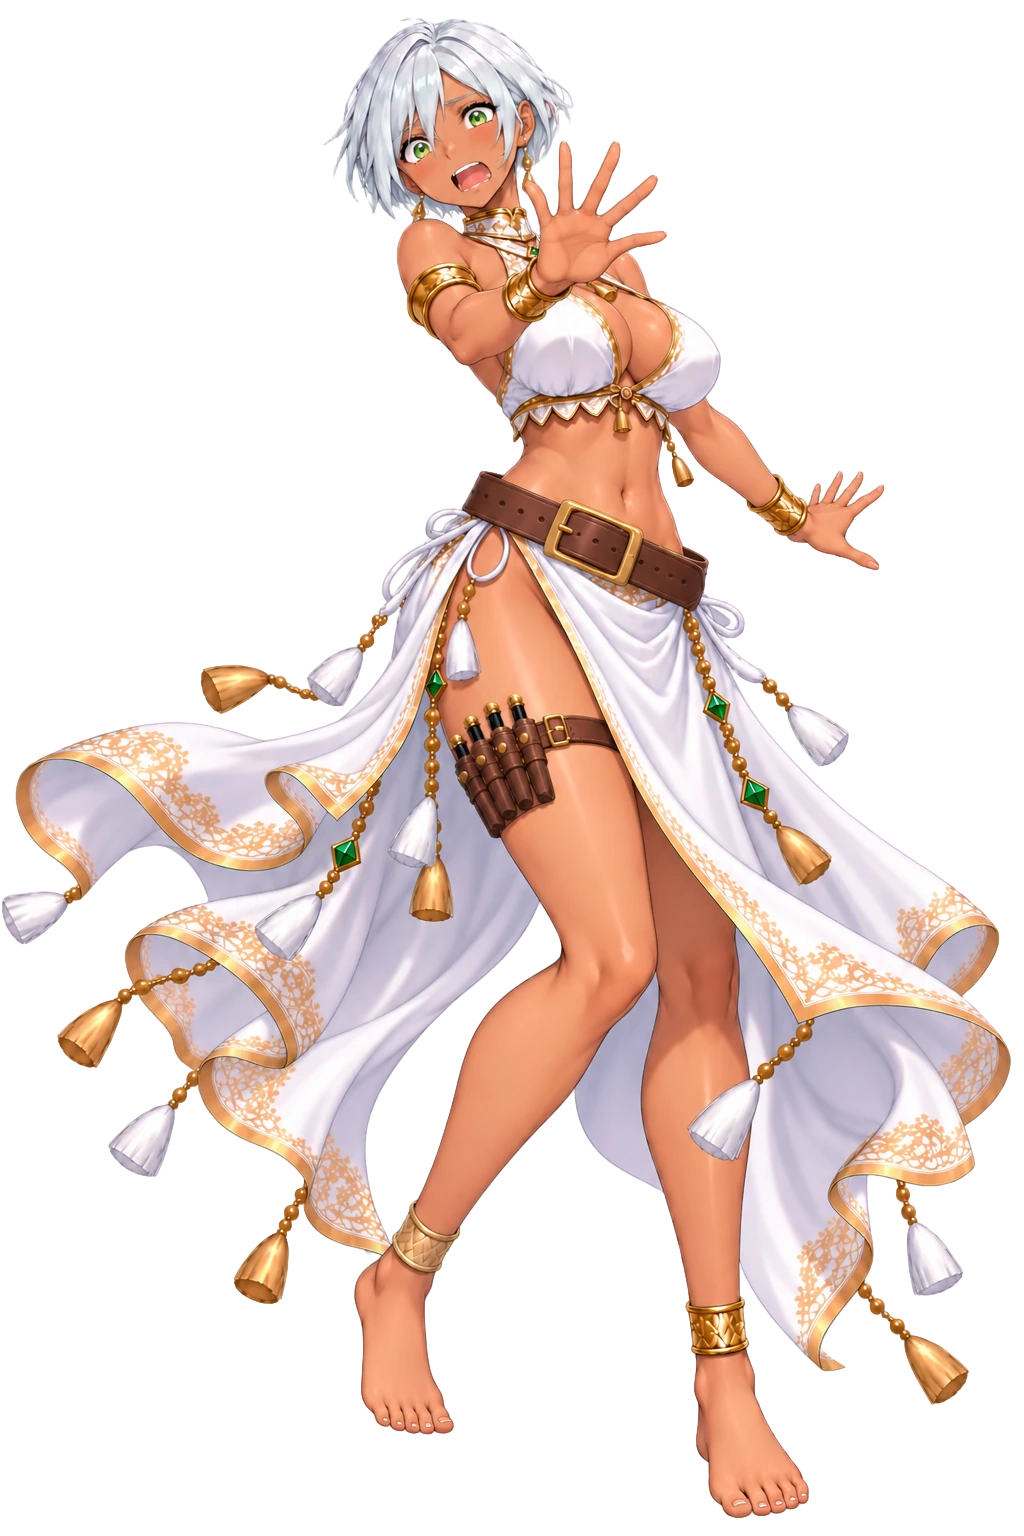
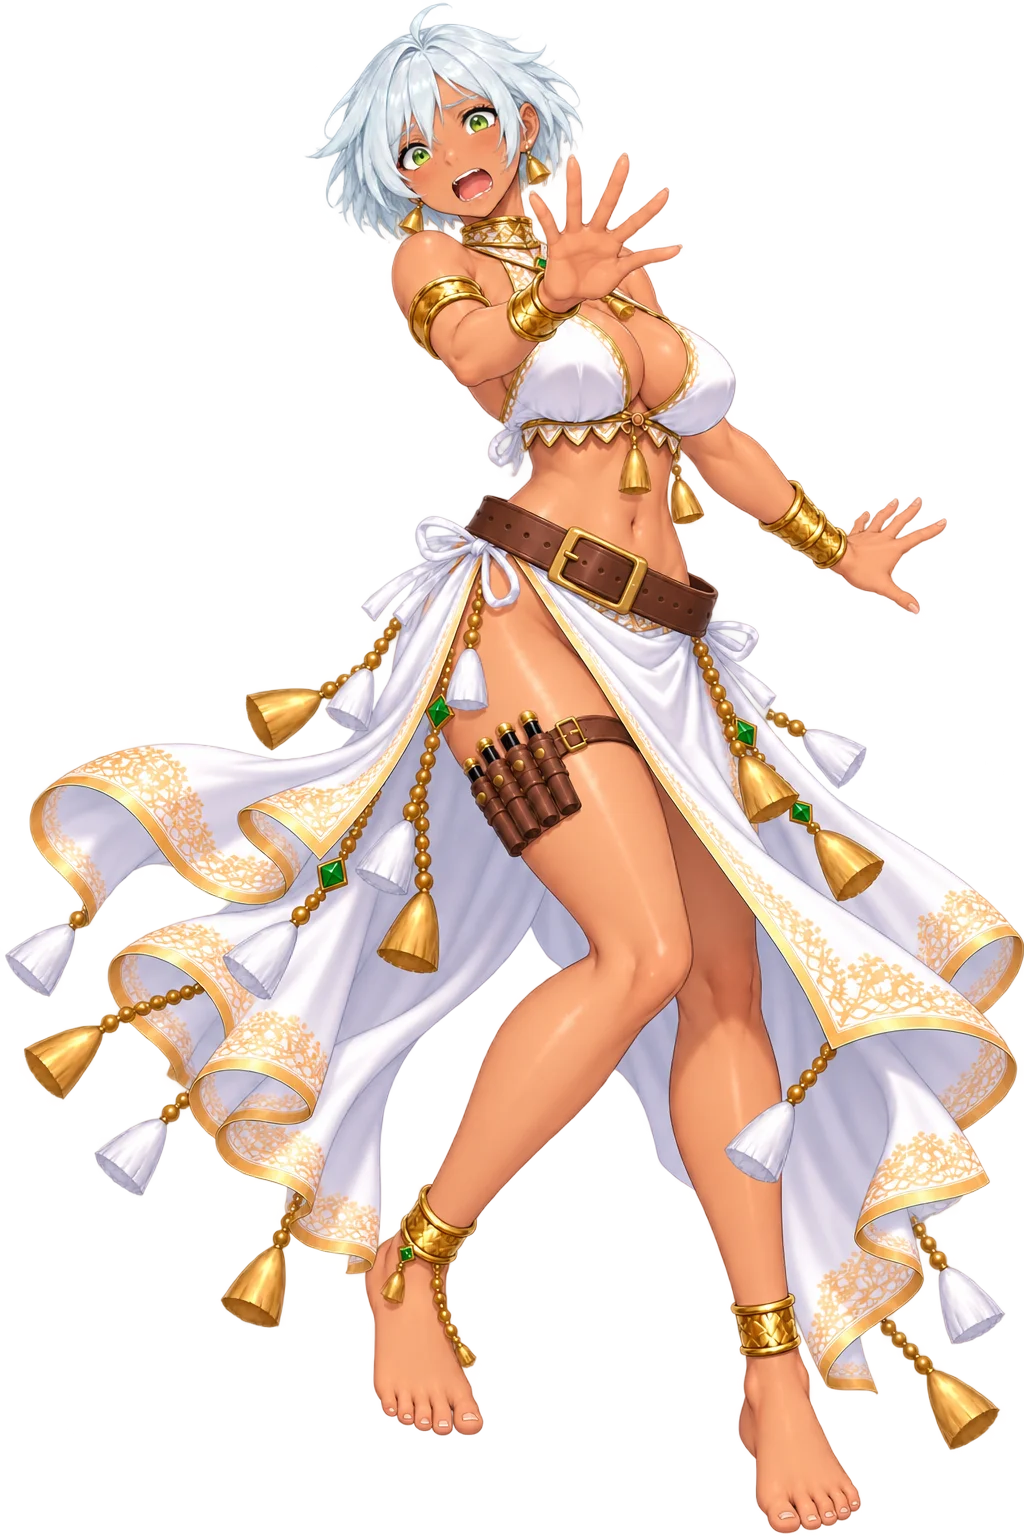
art(索拉娜): scare 短提示詞版 —— 15/15 完成
· 208.7°／角落 alpha 0／近白 1.84%；B 版（加方向詞那一版）留在 staging 當備選
· top 16→3、bot 1518→1532；fx 不動

⚠ 修掉一個會燒額度的判定錯誤：ChatGPT 是虛擬清單，捲完容器要等 1.5 秒
  再查 DOM，否則新圖讀不到 → 被誤判成「那一串掛了」→ 重送。
  scare 因此白跑三次。規約第七節已加。

diff --git a/resources/si/_sorana_regen_spec.md b/resources/si/_sorana_regen_spec.md
@@ -127,6 +127,22 @@
 同 §憲法「ChatGPT 的圖可以程式化下載」：頁內 `fetch(img.src)` → blob → `<a download>`。
 取**最後一張 `naturalWidth>=512`** 的圖。
 
+### ⚠⚠⚠ 捲完容器要**等 render**，不然會把「已經出圖」誤判成「掛了」（2026-09-21）
+
+ChatGPT 的訊息串是**虛擬清單**：新產出的 `<img>` **捲到之前根本不在 DOM 上**。
+`__grab` 的捲動迴圈與查詢寫在**同一個 tick**，所以查到的一直是「只有兩張上傳圖」
+⇒ 判成「這一串死了」→ 換對話重送。
+
+**實測後果：`scare` 這一張因此連跑四次，三次是白燒的**（每一次都真的出圖了，
+只是我讀不到）。Ray 的原話：「這張明明就已經出了你為什麼重覆跑？難怪我額度每天都被耗完」
+「**你的掛了的判定很有問題**」。
+
+⇒ **修法（一行）**：捲完 `await new Promise(r=>setTimeout(r,1500))` 再查。
+
+⚠⚠ **連帶：「超過 6 分鐘沒動＝那一串死了」這條規則要先過上面那道**。
+沒等 render 就套那條規則，等於**拿一個壞掉的觀測去觸發重送** ——
+額度就是這樣被吃掉的。**宣告任何一串「死了」之前，先捲＋等 1.5 秒再查一次。**
+
 ## 八、卡住的處理
 
 - 生圖**超過 6 分鐘沒動** ＝ 那一串死了 → **換新對話重送**（實測 ver -1556 死過一次）。

diff --git a/resources/si/_sorana_program_worklist.md b/resources/si/_sorana_program_worklist.md
@@ -14,7 +14,7 @@ resources/si/sorana_si_nod.webp        resources/si/sorana_si_stare.webp
 resources/si/sorana_si_point.webp      resources/si/sorana_si_wave.webp
 resources/si/sorana_si_lookaway.webp   resources/si/sorana_si_worry.webp
 resources/si/sorana_si_relief.webp     resources/si/sorana_si_sleep.webp
-resources/si/sorana_si_scare.webp      ← scare 交件後一起
+resources/si/sorana_si_scare.webp
 ```
 
 ⚠ 這 11 個目前都**還沒有** `?v=`，所以是加 `?v=2`（同 `renna_si_scream` 的寫法）。
@@ -39,6 +39,7 @@ resources/si/sorana_si_scare.webp      ← scare 交件後一起
 | lookaway | 5 → 5（不變） | 1513 → **1521** |
 | relief | 8 → **11** | 1518 → **1517** |
 | sleep | 304 → **231** | 1231 → **1424** ⚠ 見下 |
+| scare | 16 → **3** | 1518 → **1532** |
 
 ### ⚠⚠ `sleep` 另外要調 `cm`／`standCm`（**不要照抄，要看畫面調**）
 
@@ -69,4 +70,4 @@ resources/si/sorana_si_scare.webp      ← scare 交件後一起
 
 - 其餘索拉娜立繪（含 `battlecry`／`front`／`side`／`back` 與 read 系列）**這一輪沒換**。
 - Ray 交辦「舊索拉娜圖全部重製」還有 **46 張**沒做（清單在 `_sorana_regen_spec.md` §十）。
-- 這一輪還欠 **1 張**：`scare`（那一串連續掛掉兩次，還在重送）。
+- **15 張全部完成**（2026-09-21）。
